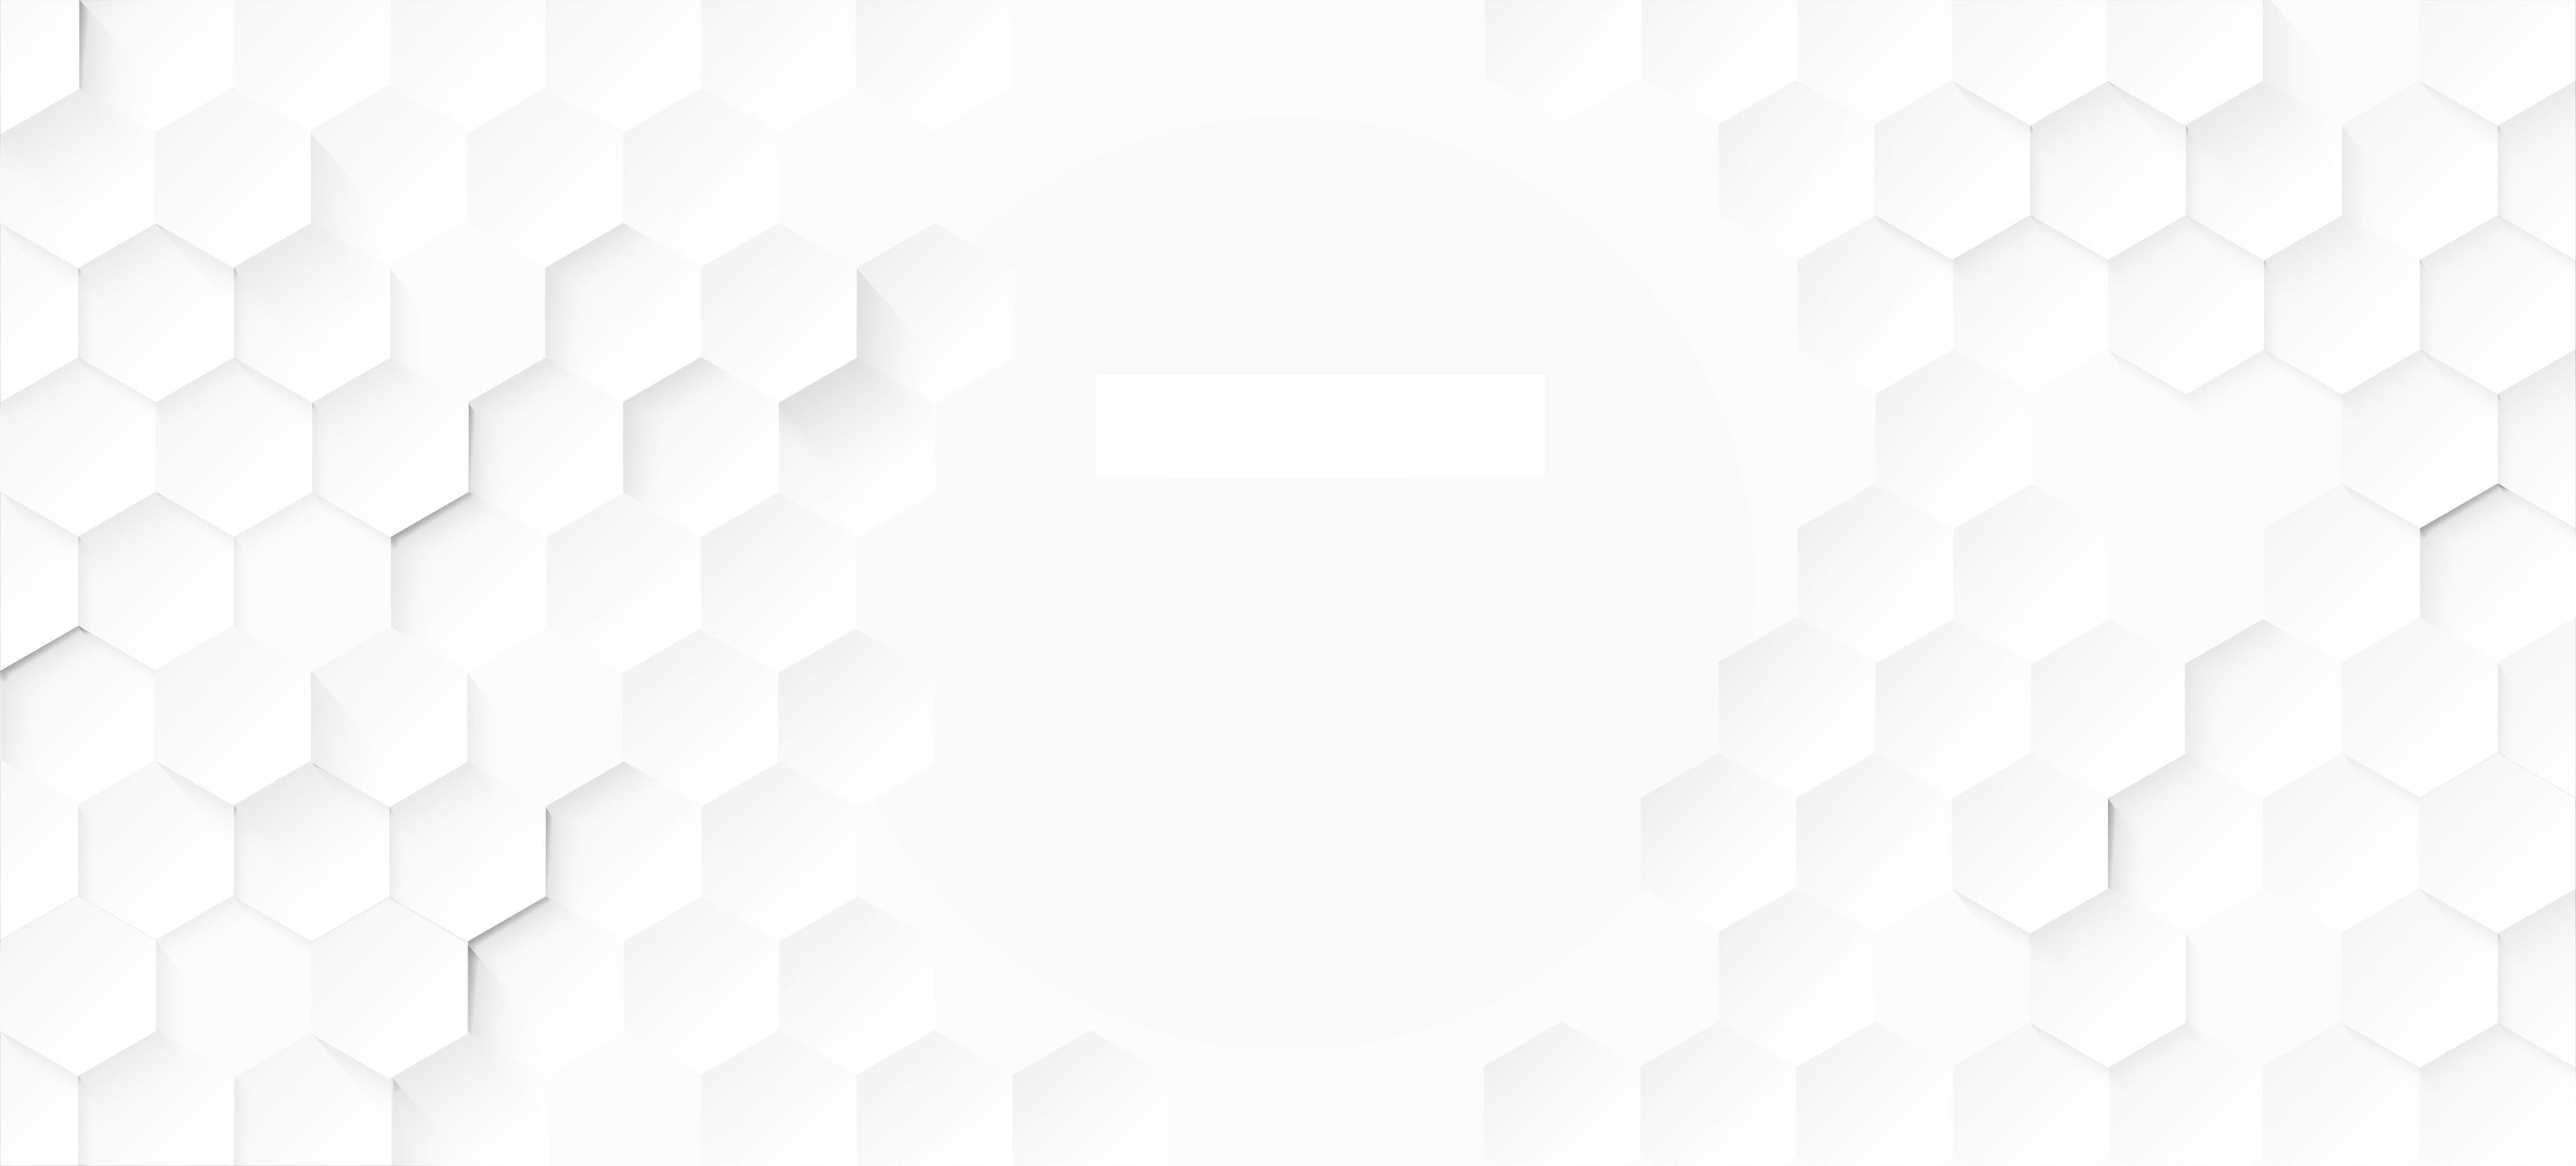
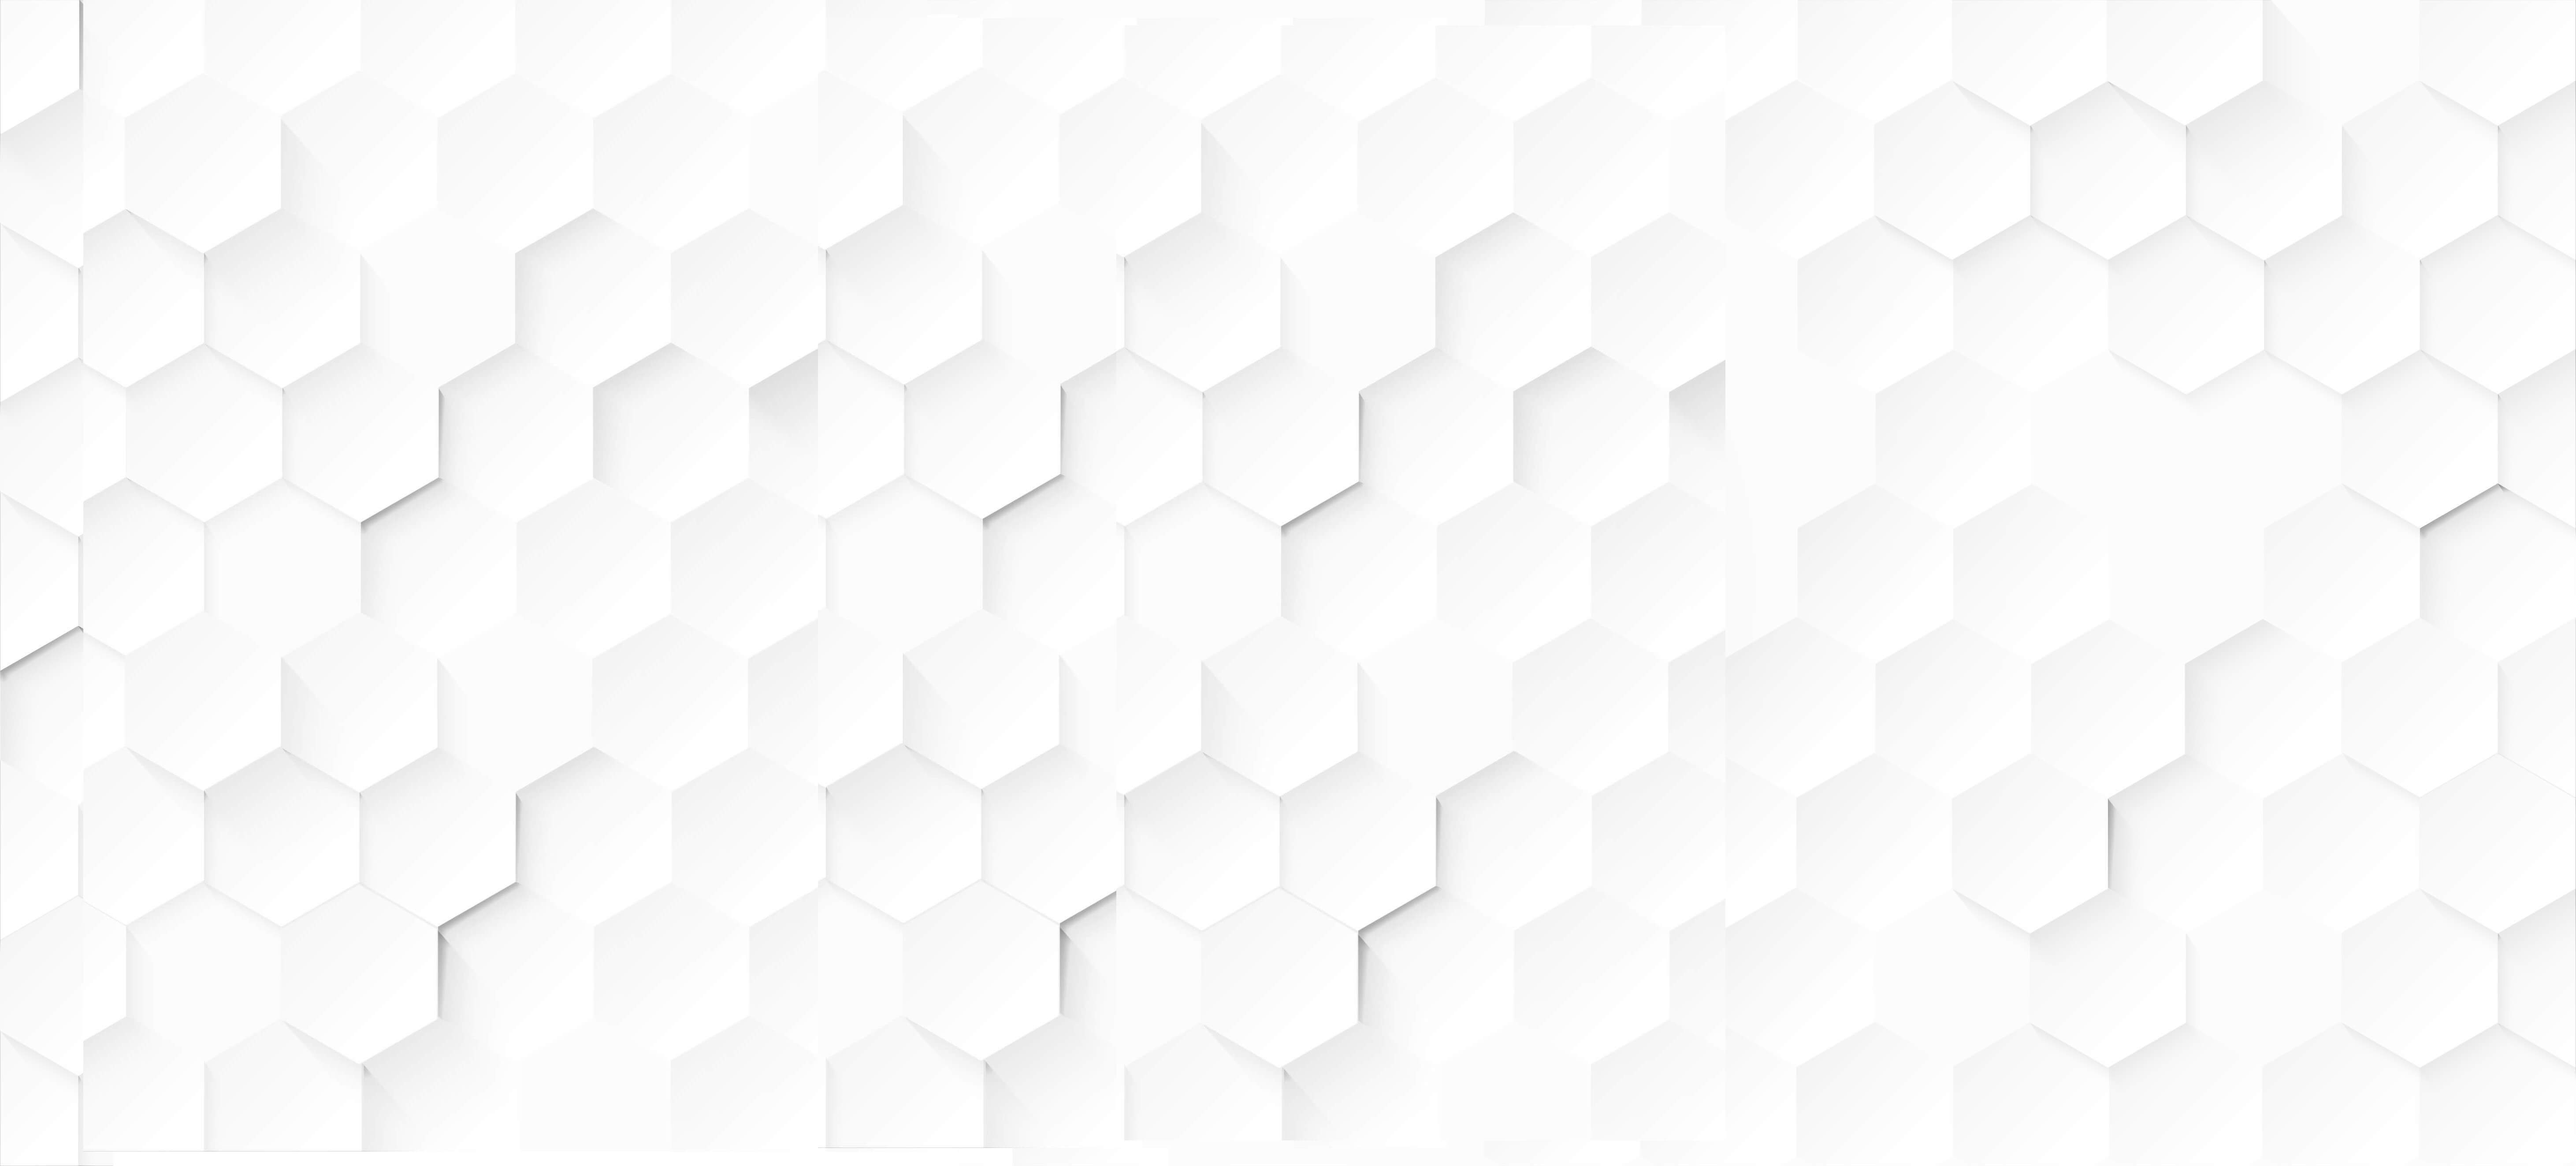
Re-do of background image for honey bee page

diff --git a/assets/css/style.css b/assets/css/style.css
@@ -71,7 +71,7 @@ header a {
 }
 
 .active {
-    border-bottom: 1px solid #2A5CAA;
+    border-bottom: 1px solid whitesmoke;
 }
 
 /*Navbar styles with dropdown toggle */
@@ -151,10 +151,14 @@ main
     }
 }
 
-#crocus-image {
+#honeybee-homepage-img {
     padding: 10px;
+    padding-left: 10px;
+    padding-right: 5px;
     min-width: 300px;
-    min-height: 300px;
+    min-height: 200px;
+    width: auto;
+    height: auto;
 }
 
 #intro-text {
@@ -170,10 +174,7 @@ body {
     justify-content: space-between;
 }
 
-main
-
-/*honey bee page*/
-    {
+main {
     height: 600px;
     width: 100%;
     margin-top: 135px;
@@ -181,10 +182,6 @@ main
     background: url("../images/white-honeycomb.webp") no-repeat center center/cover;
     background-color: whitesmoke;
     position: relative;
-}
-
-#crocus-caption {
-    padding-left: 5px;
 }
 
 /*footer*/

diff --git a/index.html b/index.html
@@ -65,11 +65,9 @@
         </div>
         <div id="introduction" class="container">
           <figure>
-          <img src="/assets/images/honey-bees-intro.webp" id="crocus-image" alt="Honey bees
-          visiting some crocus flowers in spring" padding="10" width="600" height=""450" />
+          <img src="/assets/images/honey-bees-intro.webp" id="honeybee-homepage-img" alt="A worker bee gathering pollen" padding="10" width="600" height=""450" />
           <br/>
-          <figcapion id="crocus-caption"><i>Honey bees
-        visiting crocuses in spring</i></figcation>
+          <figcapion id="honeybee-homepage-img"><i>A worker bee gathering pollen</i></figcation>
         </figure>
         <div id="intro-text">
             <p>There are over 20,000 known species of bee in the world, from
